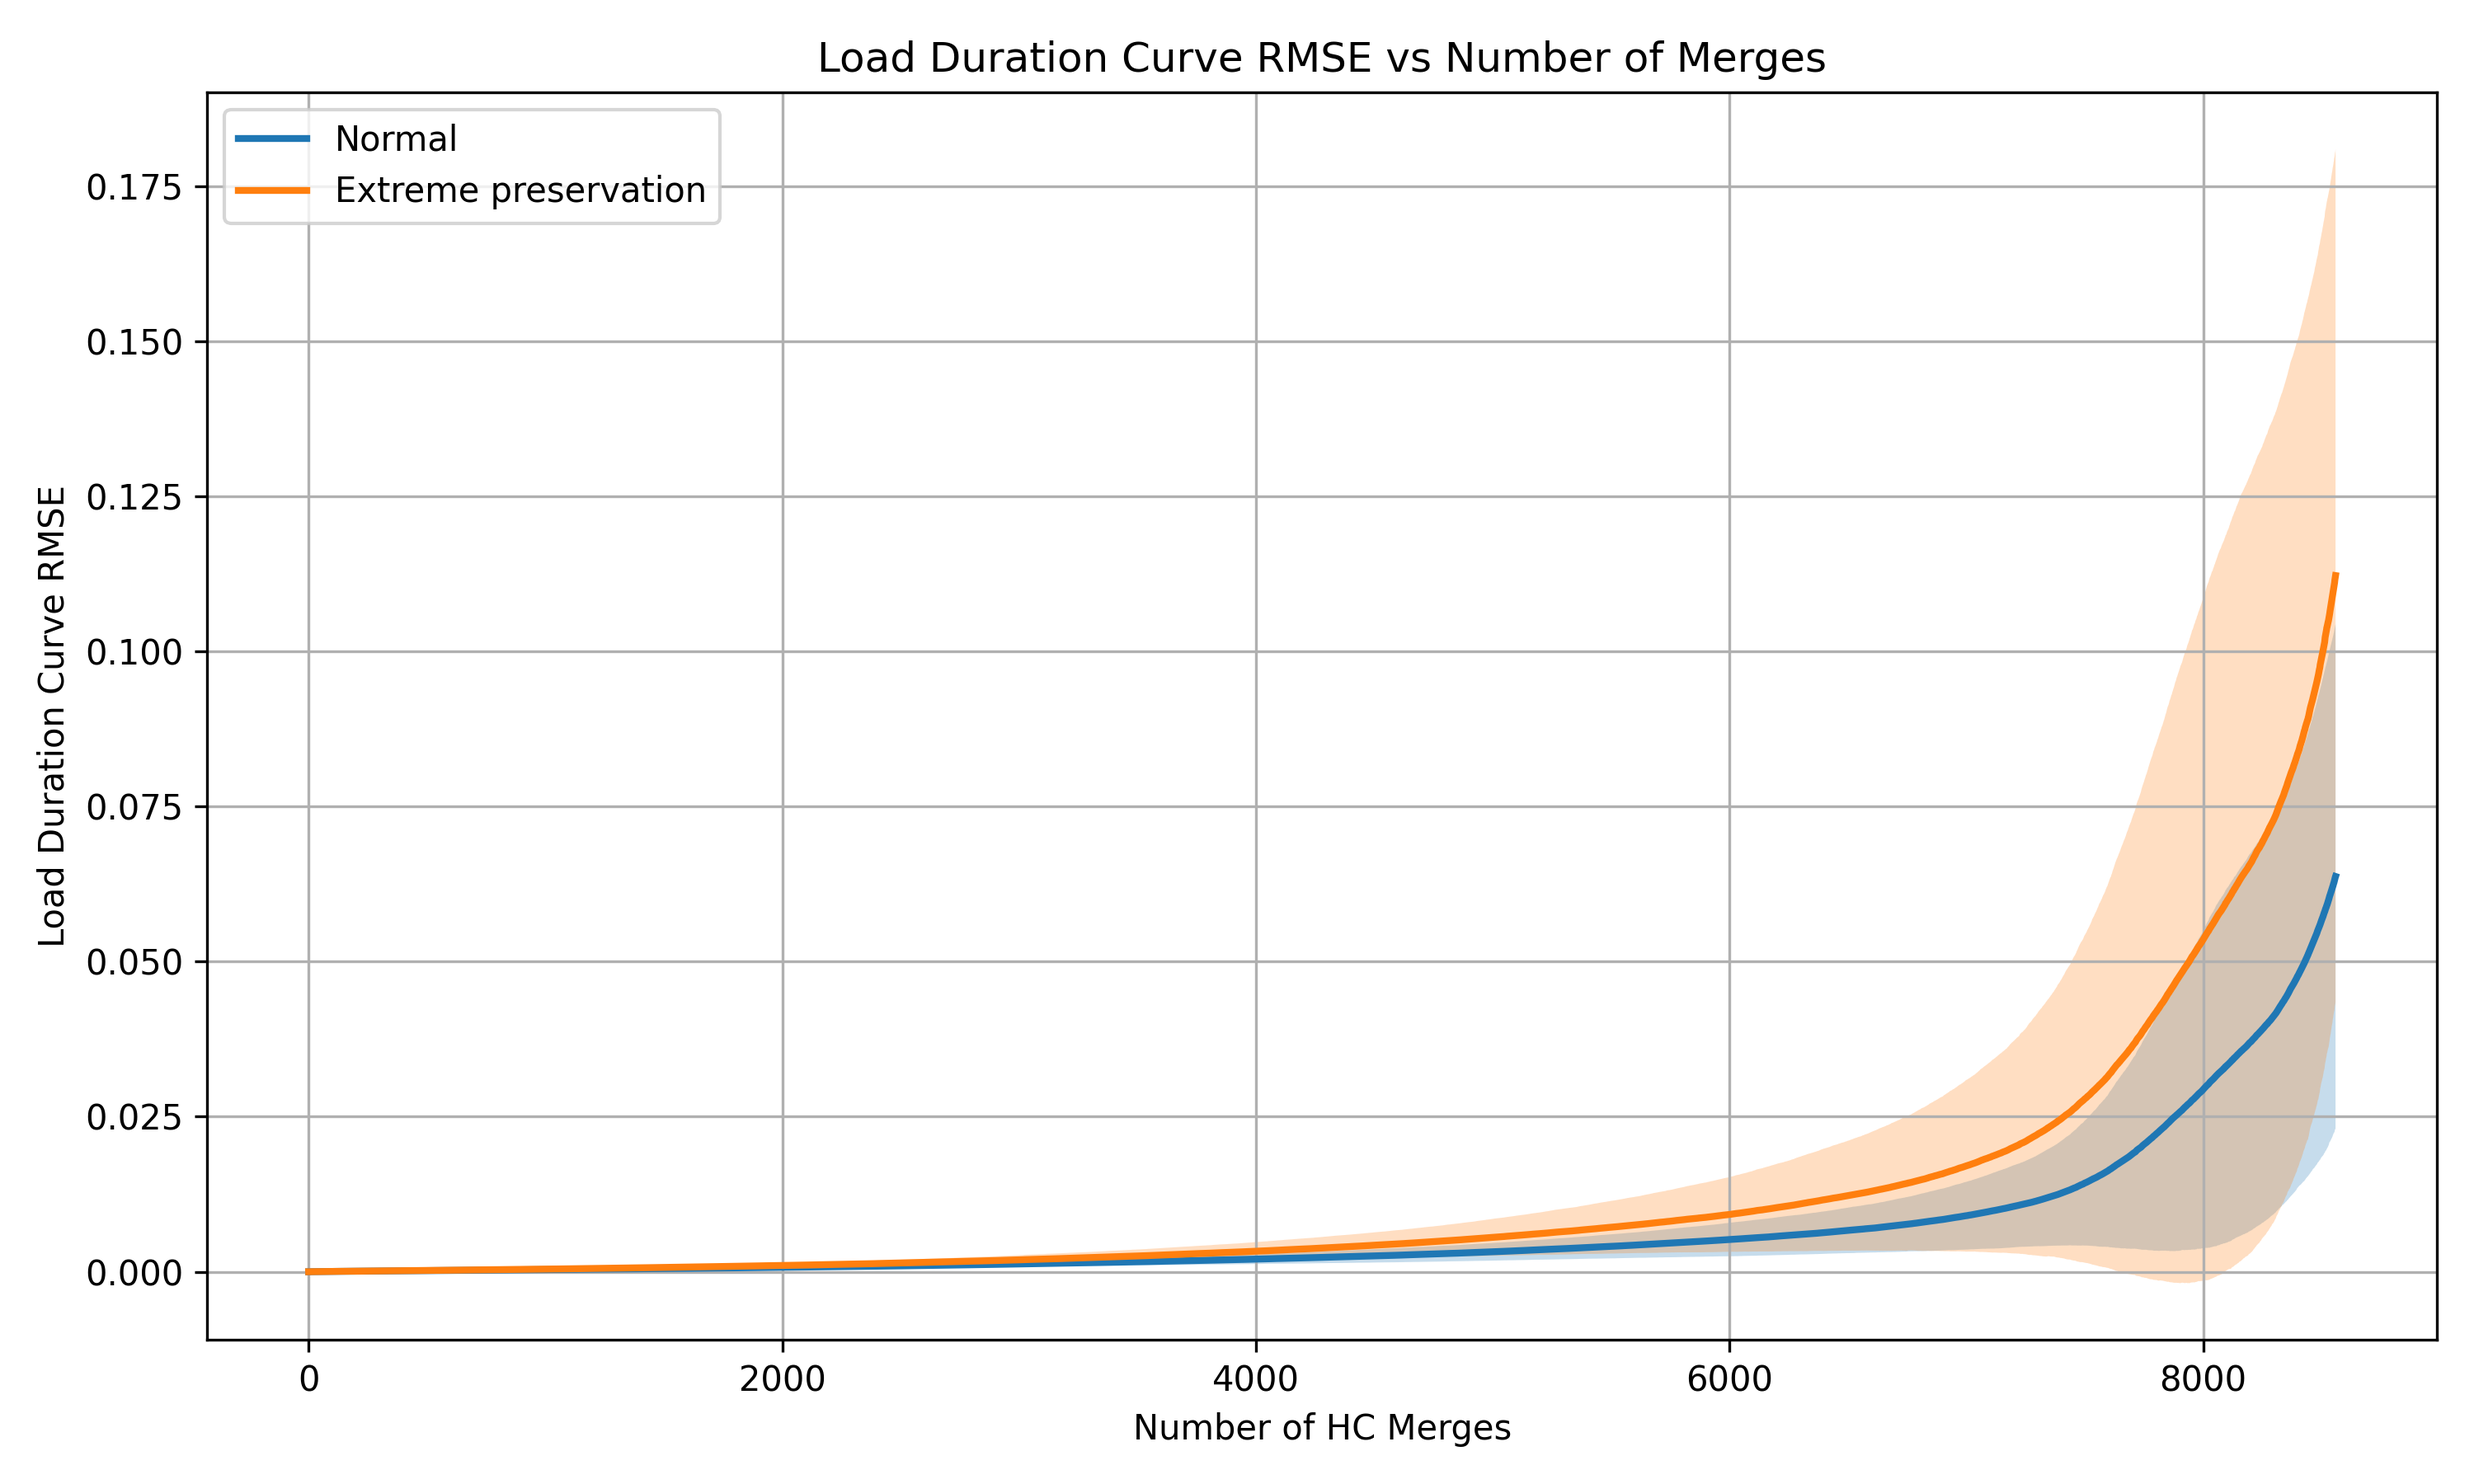
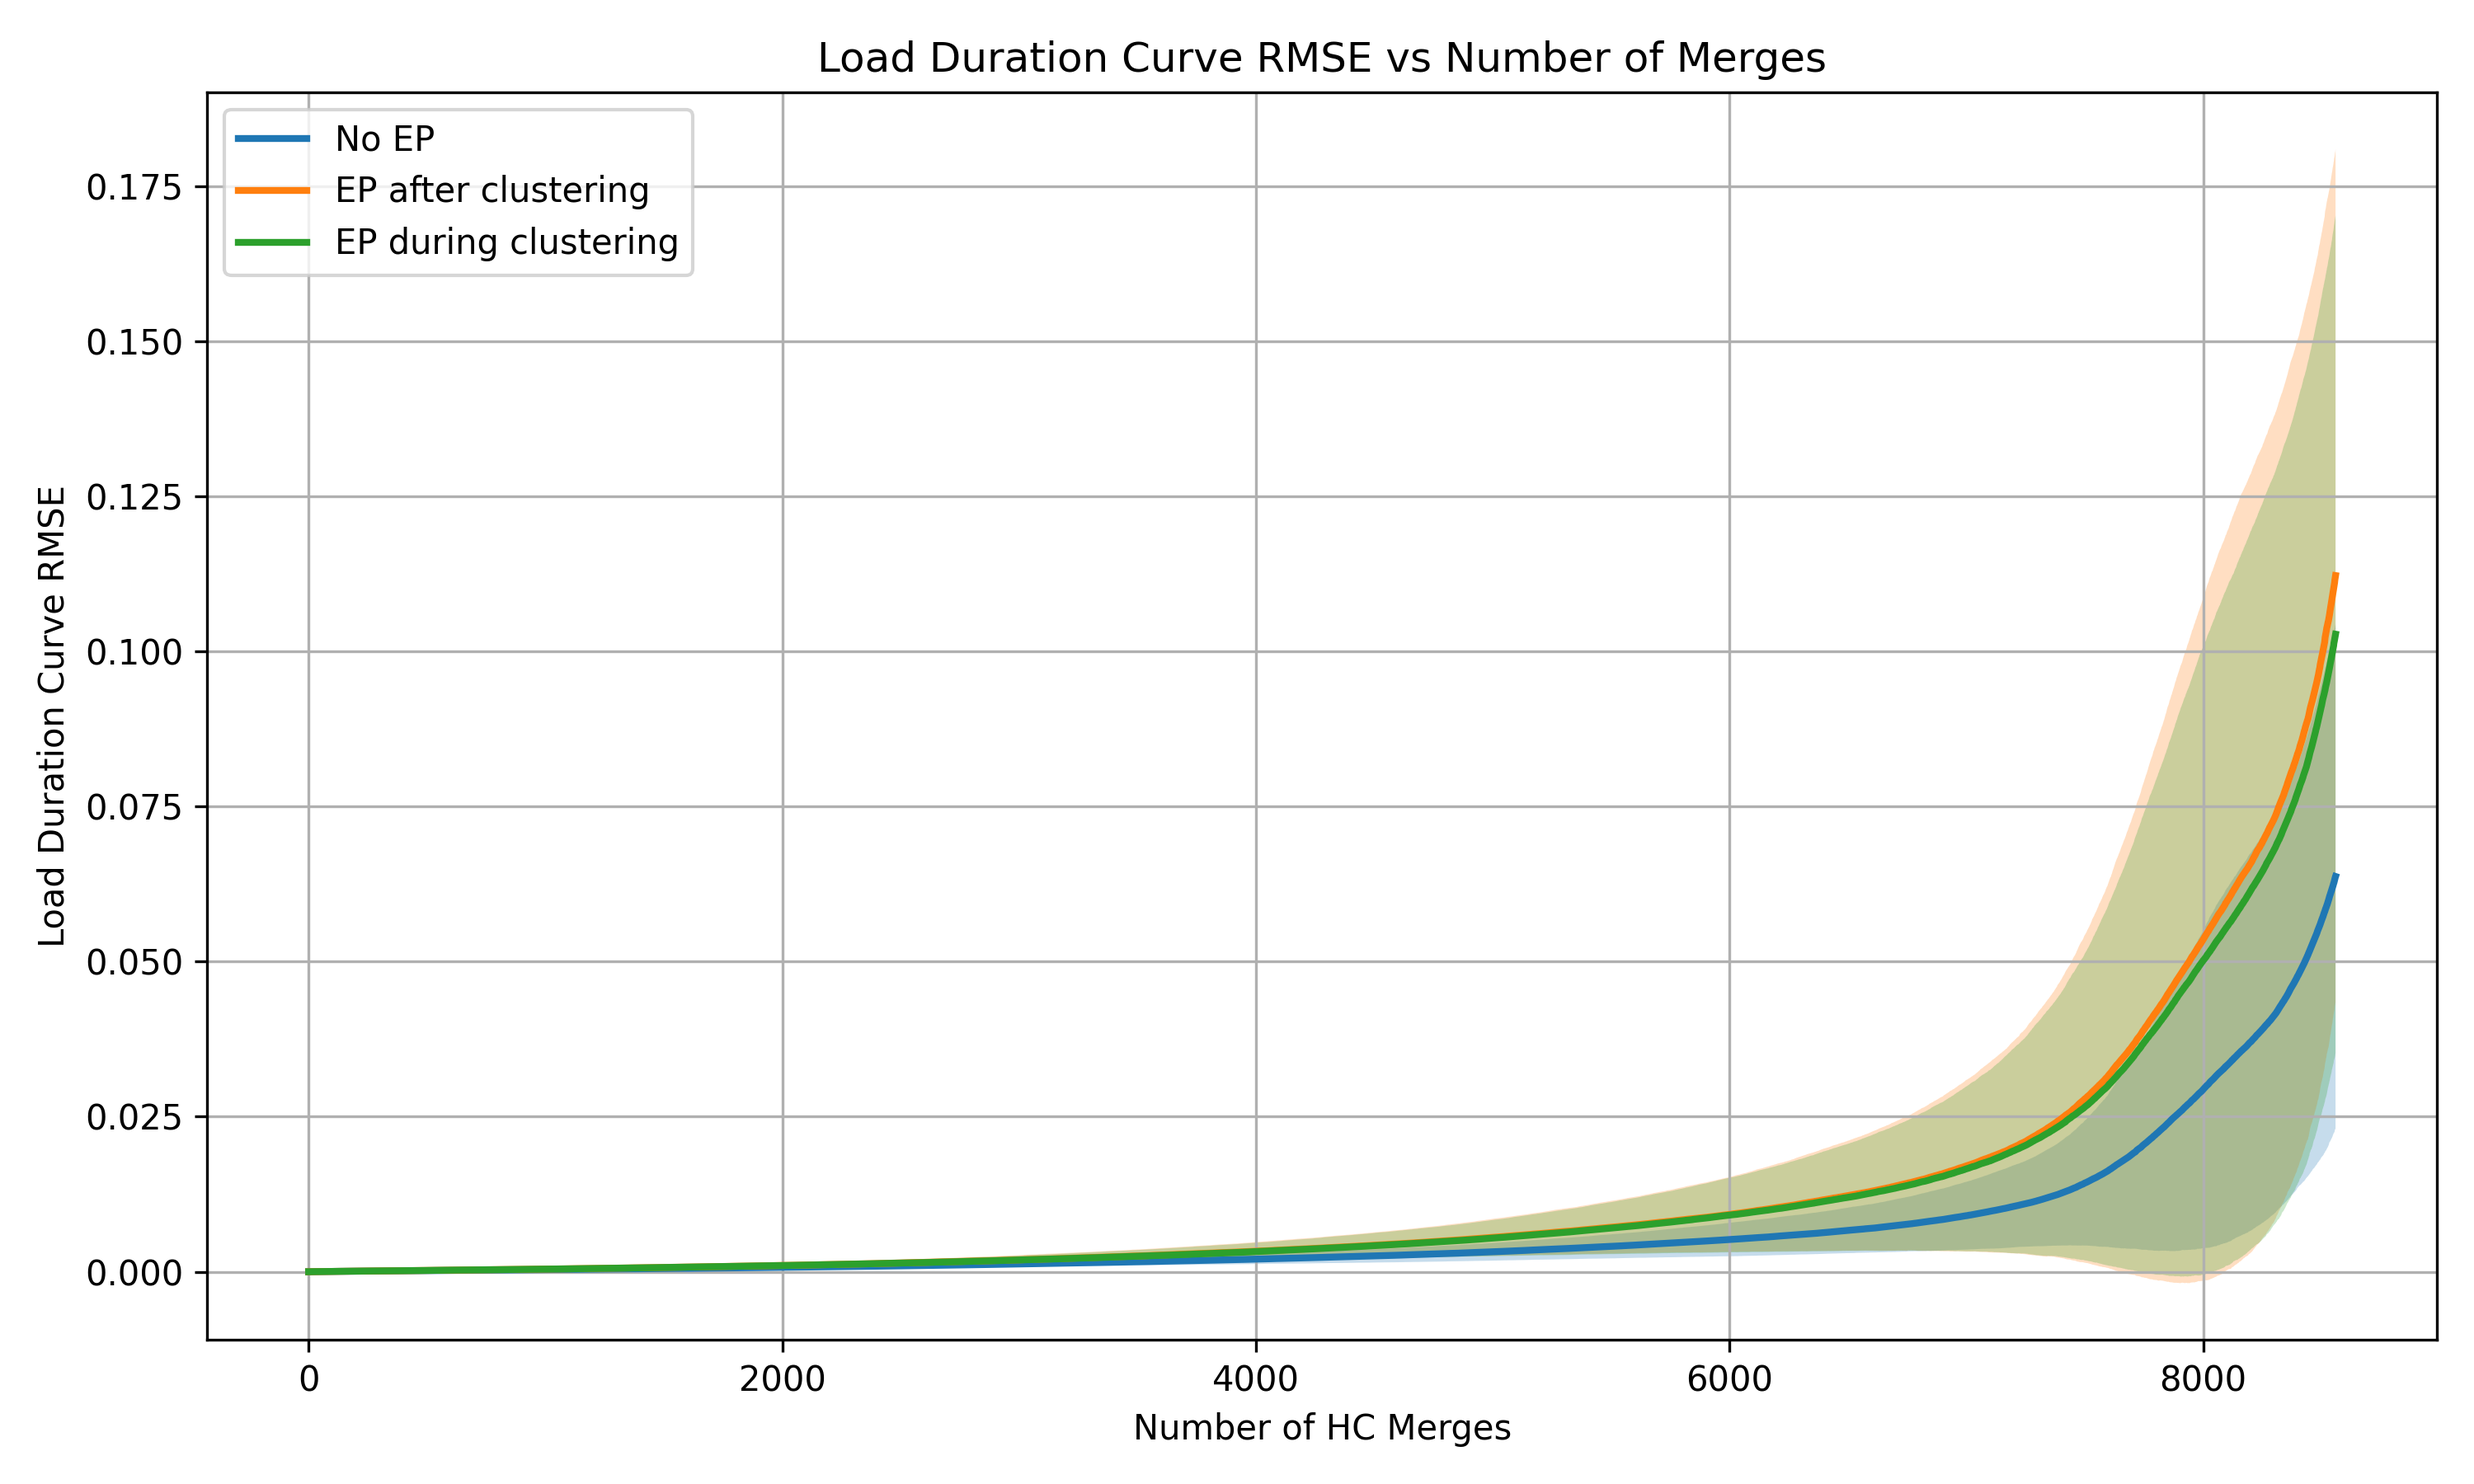
Extreme preservation during clustering

Changed region(s): [[0.124, 0.1867, 0.961, 0.8711], [0.093, 0.0622, 0.31, 0.1867]]

diff --git a/plotting/plot_errors_per_merge_comparison.py b/plotting/plot_errors_per_merge_comparison.py
@@ -6,14 +6,15 @@ from pathlib import Path
 
 # --- Config: CSV files and which columns to plot ---
 csv_files = {
-    "Normal": "plotting/csv_data/errors_per_location.csv",
-    "Extreme preservation": "plotting/csv_data/errors_per_location_extreme_preservation.csv"
+    "No EP": "plotting/csv_data/per_merge/ward_k200_perlocation_NoExtremePreservation_hp0.95_lp0.05.csv",
+    "EP after clustering": "plotting/csv_data/per_merge/ward_k200_perlocation_Afterwards_hp0.95_lp0.05.csv",
+    "EP during clustering": "plotting/csv_data/per_merge/ward_k200_perlocation_DuringClustering_hp0.95_lp0.05.csv",
 }
 
 # Clear, academic labels
 error_labels = {
     "errors": "Sum of Squared Errors (SSE)",
-    "ldc_errors": "Load Duration Curve RMSE"
+    # "ldc_errors": "Load Duration Curve RMSE"
 }
 
 output_folder = Path("plots")

diff --git a/plotting/plot_load_duration_curve.py b/plotting/plot_load_duration_curve.py
@@ -8,7 +8,8 @@ extreme_preservation = True
 Path("plots/load_duration_curve").mkdir(parents=True, exist_ok=True)
 
 # --- Load CSVs ---
-df = pd.read_csv(f"plotting/csv_data/partitions/{num_clusters}{'-extreme_preservation-true' if extreme_preservation else ''}.csv")
+filename = "ward_k1500_perlocation_NoExtremePreservation_hp0.95_lp0.05"
+df = pd.read_csv(f"plotting/csv_data/partitions/{filename}.csv")
 df_full_resolution = pd.read_csv(f"plotting/csv_data/partitions/8760.csv")
 
 # --- Filter for NL ---
@@ -90,5 +91,5 @@ for i, asset in enumerate(assets):
     ax.legend()
 
 plt.tight_layout()
-plt.savefig(f"plots/load_duration_curve/{num_clusters}{'-extreme_preservation-true' if extreme_preservation else ''}.png")
+plt.savefig(f"plots/load_duration_curve/{filename}.png")
 plt.show()
